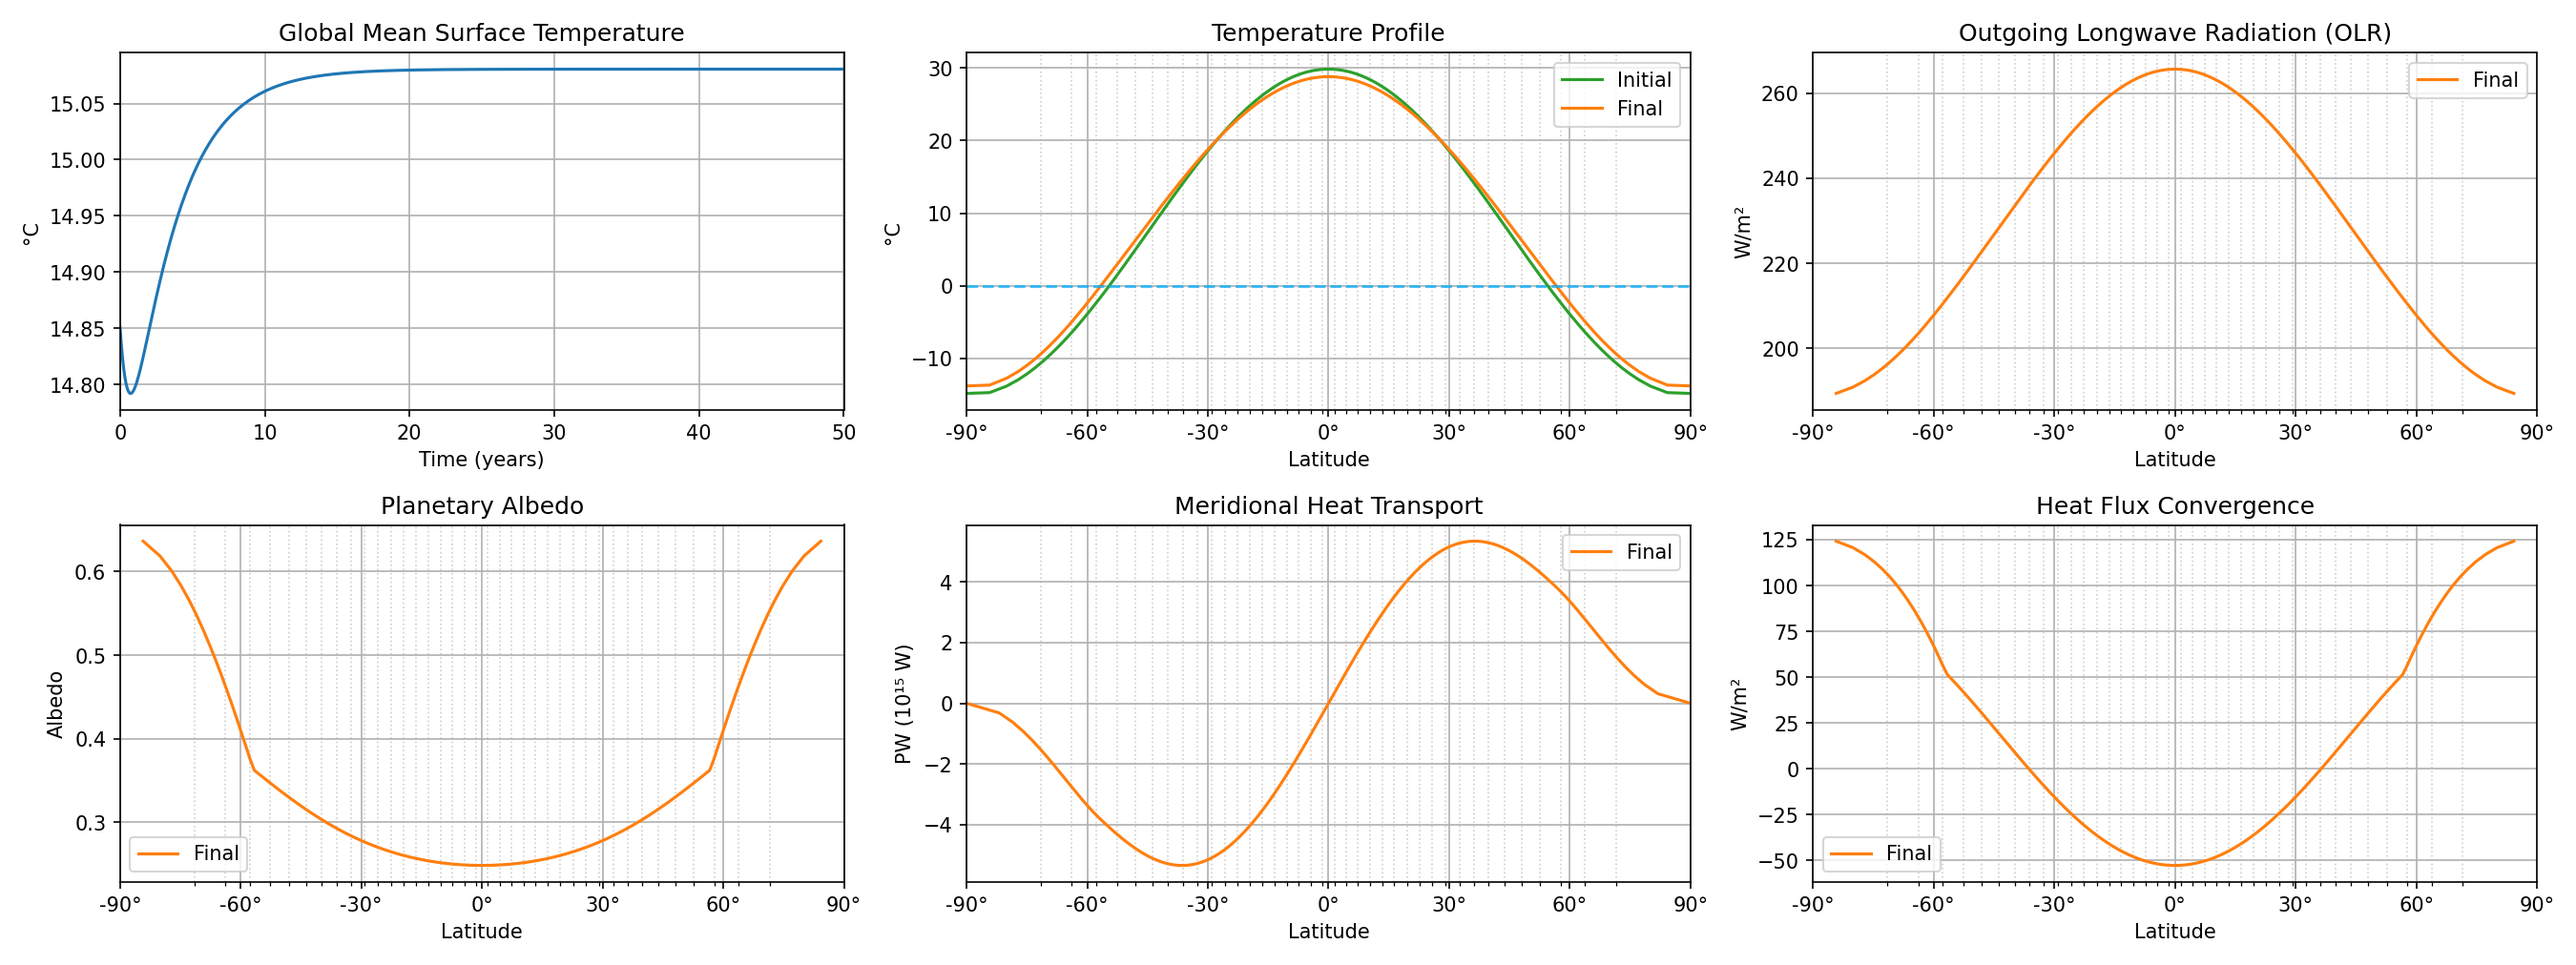
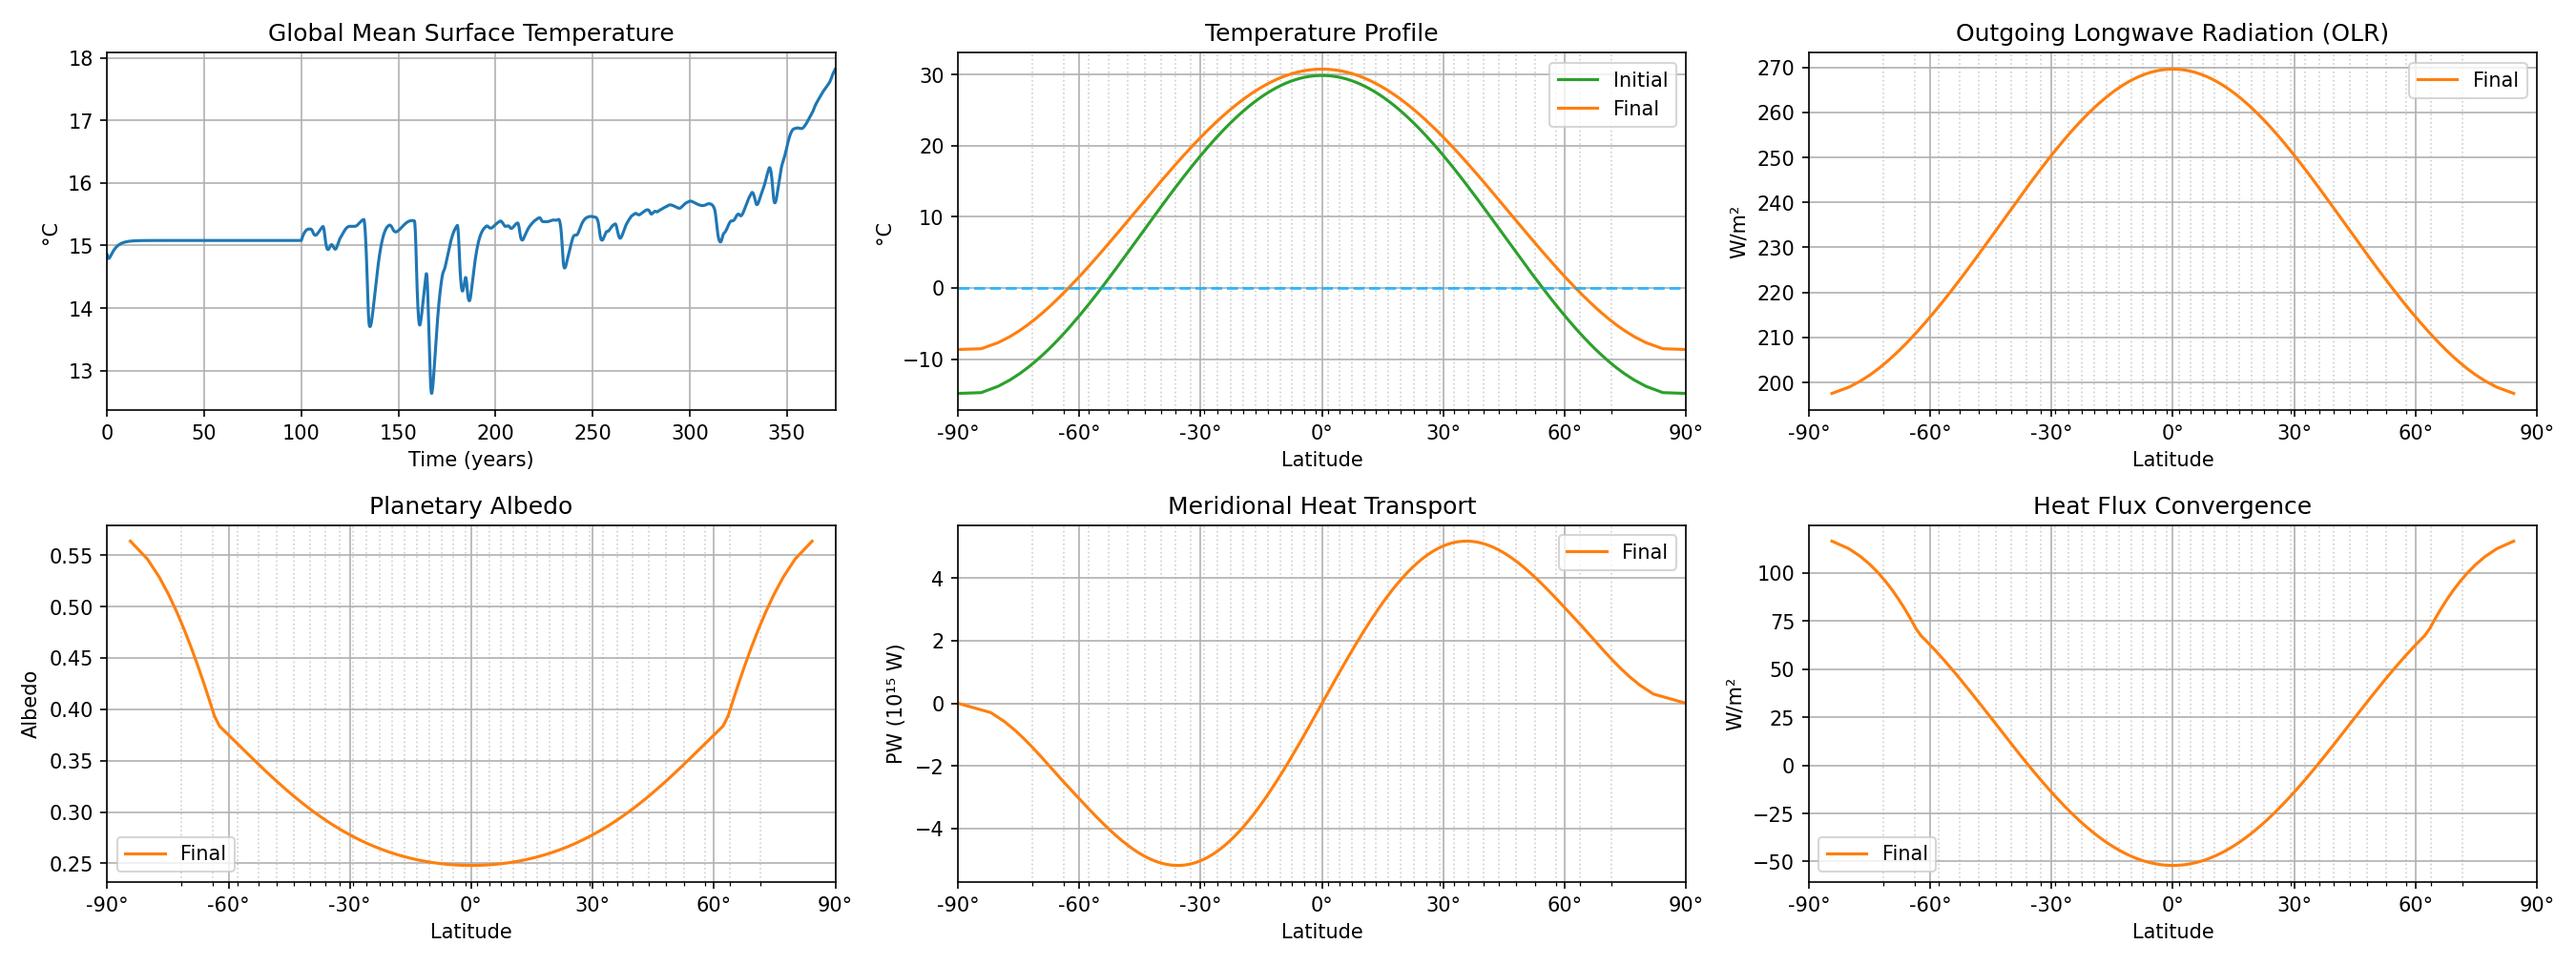
rykkede lidt rundt på linjer af kode for at debugge

diff --git a/Programmappen/model.py b/Programmappen/model.py
@@ -10,26 +10,25 @@ class ClimateModel:
         self.modes = modes
         self.outputs = outputs
         self.funcs = {name: func for name, func in vars(phys).items() if callable(func)} # Physics functions
-
         self.C = phys.C_M * params['SD'] # Heat capacity may be changed
-        self.dt = self.config["dt_years"] * phys.SECONDS_PER_YEAR # time step in seconds
-        self.nsteps = int(np.ceil(self.config["years"] / self.config["dt_years"])) # Run for at least config["years"]
-        self.ctrl_nsteps = int(round(self.config["ctrl_years"] / self.config["dt_years"]))
-        
+
+        # Let modes modify config/params/T/funcs as needed
+        for m in self.modes: m.initialize(self)
         for m in self.modes: m.check_compatibility(self.modes)
 
     def run(self):
-        # Let modes modify config/params/T/funcs as needed
-        for m in self.modes: m.initialize(self)
-        self.sim_info = outputs.print_simulation_info(self.config, self.params) # Print simulation info and return as string for use in main.py
-
         # Define grid and initial state
         self.dx = 2.0 / self.config["nx"]
         self.x = np.linspace(-1.0 + self.dx/2, 1.0 - self.dx/2, self.config["nx"])
         self.T = phys.T_init(self.x, self.params["T0"])  # Initial temperature profile (K)
 
+        self.dt = self.config["dt_years"] * phys.SECONDS_PER_YEAR # time step in seconds
+        self.nsteps = int(np.ceil(self.config["years"] / self.config["dt_years"])) # Run for at least config["years"]
+        self.ctrl_nsteps = int(round(self.config["ctrl_years"] / self.config["dt_years"]))
+
         # Let outputs collect initial data
         for o in self.outputs: o.initialize(self)
+        self.sim_info = outputs.print_simulation_info(self.config, self.params) # Print simulation info and return as string for use in main.py
         
         for i in range(self.nsteps):
             # Evolve model one step

diff --git a/Programmappen/modes.py b/Programmappen/modes.py
@@ -75,9 +75,13 @@ class VariableForcing(Mode):
            header = next(reader)  # Skip header row if present
            ForcingHistory = np.array([row for row in reader]) # Reads CSV data
         year = ForcingHistory[:,0].astype(float)
-        model.config["years"] = len(year) + model.config["ctrl_years"]
         forcing = ForcingHistory[:,19].astype(float)
-        forcing = np.interp(np.linspace(0, 1, model.nsteps), np.linspace(0, 1, len(forcing)), forcing) # Interpolation
+
+        model.config["years"] = len(year) + model.config["ctrl_years"]
+        model.nsteps = int(np.ceil(model.config["years"] / model.config["dt_years"])) # Run for at least config["years"]
+        model.ctrl_nsteps = int(round(model.config["ctrl_years"] / model.config["dt_years"]))
+
+        forcing = np.interp(np.linspace(0, 1, model.nsteps - model.ctrl_nsteps), np.linspace(0, 1, len(forcing)), forcing) # Interpolation
         model.F_History = np.concatenate( (np.zeros(model.ctrl_nsteps), forcing) ) #Start with 0's under the control period
 
 
